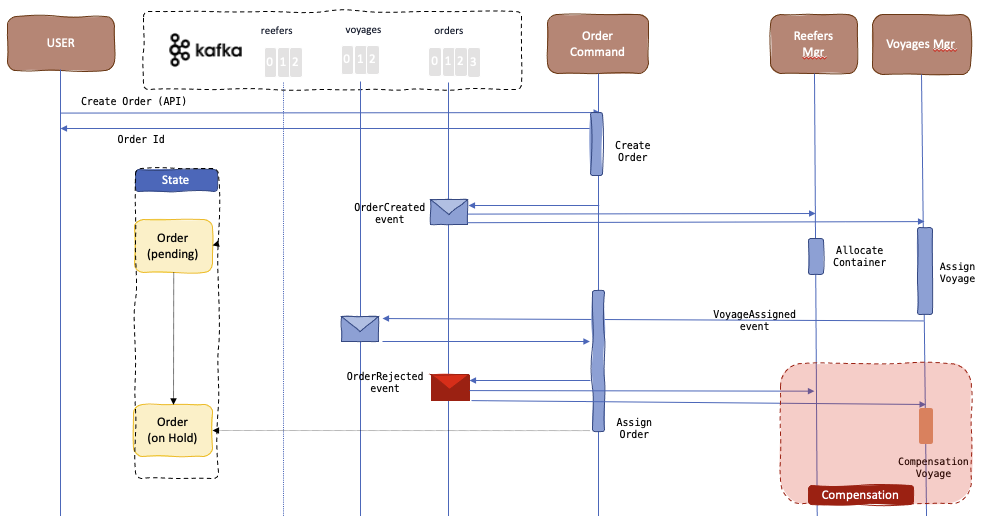
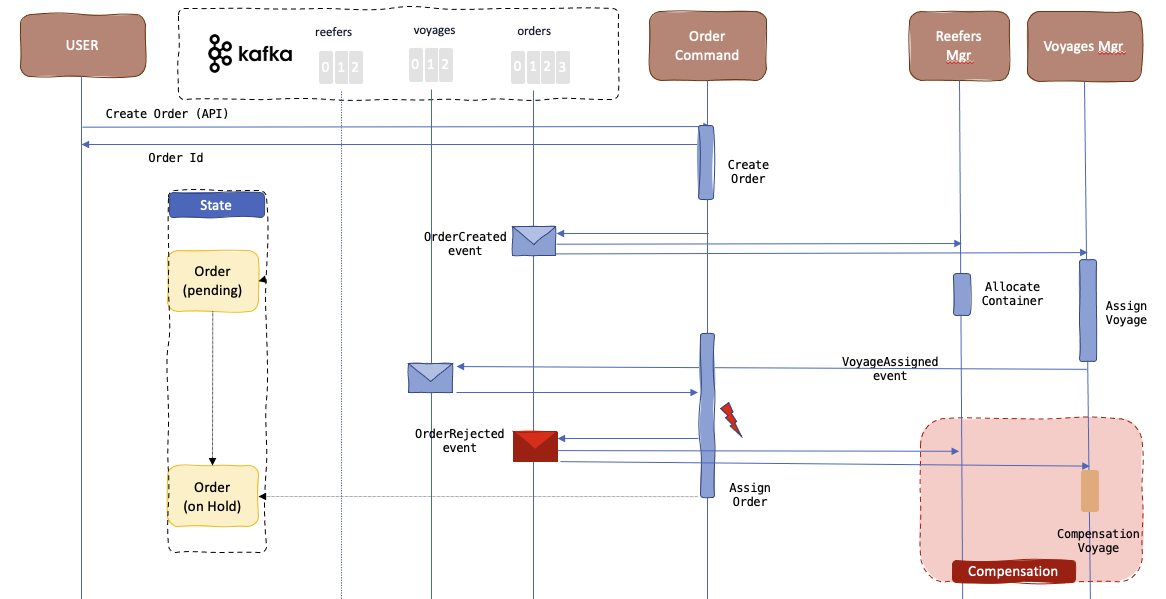
add flow and explanations

diff --git a/docs/index.md b/docs/index.md
@@ -30,8 +30,48 @@ The new implementation of the services are done with Quarkus and Microprofile Me
 * [Reefer Microsercice](https://github.com/ibm-cloud-architecture/refarch-kc-reefer-ms)
 * [Voyage Microservice](https://github.com/ibm-cloud-architecture/refarch-kc-voyage-ms)
 
-Each code structure is based on the domain-driven-design practice with clear separation between layer and keep the domain layer using the ubiquituous language of each domain: order, reefer, and voyage.
+Each code structure is based on the domain-driven-design practice with clear separation between layers (app, domain, infrastructure) and keep the domain layer using the ubiquituous language of each domain: order, reefer, and voyage.
 
+```
+│   │   │   └── ibm
+│   │   │       └── eda
+│   │   │           └── kc
+│   │   │               └── orderms
+│   │   │                   ├── app
+│   │   │                   │   └── OrderCommandApplication.java
+│   │   │                   ├── domain
+│   │   │                   │   ├── Address.java
+│   │   │                   │   ├── OrderService.java
+│   │   │                   │   └── ShippingOrder.java
+│   │   │                   └── infra
+│   │   │                       ├── api
+│   │   │                       │   └── ShippingOrderResource.java
+│   │   │                       ├── events
+│   │   │                       │   ├── EventBase.java
+│   │   │                       │   ├── order
+│   │   │                       │   │   ├── OrderCreatedEvent.java
+│   │   │                       │   │   ├── OrderEvent.java
+│   │   │                       │   │   ├── OrderEventProducer.java
+│   │   │                       │   │   ├── OrderUpdatedEvent.java
+│   │   │                       │   │   └── OrderVariablePayload.java
+│   │   │                       │   ├── reefer
+│   │   │                       │   │   ├── ReeferAgent.java
+│   │   │                       │   │   ├── ReeferAllocated.java
+│   │   │                       │   │   ├── ReeferEvent.java
+│   │   │                       │   │   ├── ReeferEventDeserializer.java
+│   │   │                       │   │   └── ReeferVariablePayload.java
+│   │   │                       │   └── voyage
+│   │   │                       │       ├── VoyageAgent.java
+│   │   │                       │       ├── VoyageAllocated.java
+│   │   │                       │       ├── VoyageEvent.java
+│   │   │                       │       ├── VoyageEventDeserializer.java
+│   │   │                       │       └── VoyageVariablePayload.java
+│   │   │                       └── repo
+│   │   │                           ├── OrderRepository.java
+│   │   │                           └── OrderRepositoryMem.java
+```
+
+Events are defined in the infrastructure level, as well as the JAX-RS APIs.
 ### Compensation
 
 The SAGA pattern comes with the tradeoff that a compensation process must also be implemented in the case that one, or multiple, of the sub transactions fails or does not achieve to complete so that the system rolls back to the initial state before the transaction began.
@@ -42,15 +82,13 @@ In our specific case, a new order creation transaction can fail either because w
 
 ![no container](images/saga-flow-2.png)
 
-When a new order creation is requested by a customer but there is not a container to be allocated to such order, either because the container(s) do not have enough capacity or there is no container available in the origin port for such order, the compensation process for the order creation transaction is quite simple. The order microservice will not get an answer 
-
-The Spring Container microservice will emit a ContainerNotFound event that will inform the interested parties (Order Command and Voyages) that there is no container available for a particular order creation request. The Voyages microservices will not need to do anything while the Order Command microservice will transition the order creation request to rejected as a result. It will also emit an OrderRejected event to inform any other interested parties.
+When a new order creation is requested by a customer but there is not a container to be allocated to such order, either because the container(s) do not have enough capacity or there is no container available in the origin port for such order, the compensation process for the order creation transaction is quite simple. The order microservice will not get an answer from the reefer manager, anf after a certain time it will trigger the compensation flow by sending a OrderUpdate with status onHold. The voyage service which may has responded positively before that, may roll back the order to voyage relationship.
 
 ### No voyage
 
-![no voyage](images/Slide3.png)
+![no voyage](images/saga-flow-3.png)
 
-This case is, however, a bit more complicate than the previous one as, this time, the Spring Container microservice will have to compensate for the action of allocating a container to the order. As we see, the actions flow remains as expected for the SAGA transaction until the Voyages microservice informs with a VoyageNotFound event that there is no voyage matching the required request of the order. As a result, the Order Command microservice will transition the order to Rejected and emit an OrderRejected event to inform the interested parties. In this case, the Spring Container is one of those interested parties as it will need to kick off the compensation process, which in this case is nothing more than de-allocate the container to the order to make it available for any other coming order.
+This case is the sysmetric of the other one. The actions flow remains as expected for the SAGA transaction until the Voyages microservice is not answering after a time period or answering negatively. As a result, the Order Command microservice will transition the order to `OnHold` and emit an OrderUpdateEvent to inform the saga participants. In this case, the Reefer manager is one of those interested parties as it will need to kick off the compensation task, which in this case is nothing more than de-allocate the container to the order to make it available for any other coming order.
 
 ## Run locally
 
@@ -62,11 +100,59 @@ docker-compose up -d
 
 ### Happy path demonstration
 
-Execute the create order
+* Execute the create order
 
 ```sh
-./e2e/scripts/createOrder.sh
+./e2e/sendGoodOrder.sh
 ```
+
+```json
+{ "orderID": "GoodOrder02",
+  "productID":"P01",
+  "customerID":"Customer01",
+  "quantity":70,
+  "pickupAddress":{"street":"1st main street","city":"San Francisco","country":"USA","state":"CA","zipcode":"95051"},
+  "pickupDate":null,
+  "destinationAddress":{"street":"1st horizon road","city":"Shanghai","country":"CH","state":"S1","zipcode":"95051"},
+  "expectedDeliveryDate":null,
+  "creationDate":"2022-05-16",
+  "updateDate":"2022-05-16",
+  "status":"pending"}
+```
+
+* Verify in Kafdrop the `orders` topic contains the expected CreateOrder event
+
+```sh
+chrome https://localhost:9000
+```
+
+![](./images/order-hp.png)
+
+* Verify in Kafdrop the `reefers` topic
+
+![](./images/reefer-hp.png)
+
+* Verify the `voyages` topic
+
+![](./images/voyage-hp.png)
+
+* The ShippingOrder should now be in assigned state as the order manager receives the two positive answers from the saga participant.
+
+![](./images/order-assigned.png)
+
+### Trigger the compensation tasks
+
+The order has a pickup city set to Boston, and there is no reefer available at that location at that time, so the Reefer service is not responding to the order. The order microservice has two timers for each topics it subscribes to. If those timer sets, it looks at existing pending orders and trigget an OrderUpdateEvent with status onHold.
+
+* Send an order from Boston
+
+```sh
+./e2e/sendNonPossibleOrder.sh
+```
+
+* Verify order created event reaches voyage and reefer microservices
+* Voyage generates a event for voyages allocated.
 
 ## Deploy with Event Streams on OpenShift
 
+TBD
